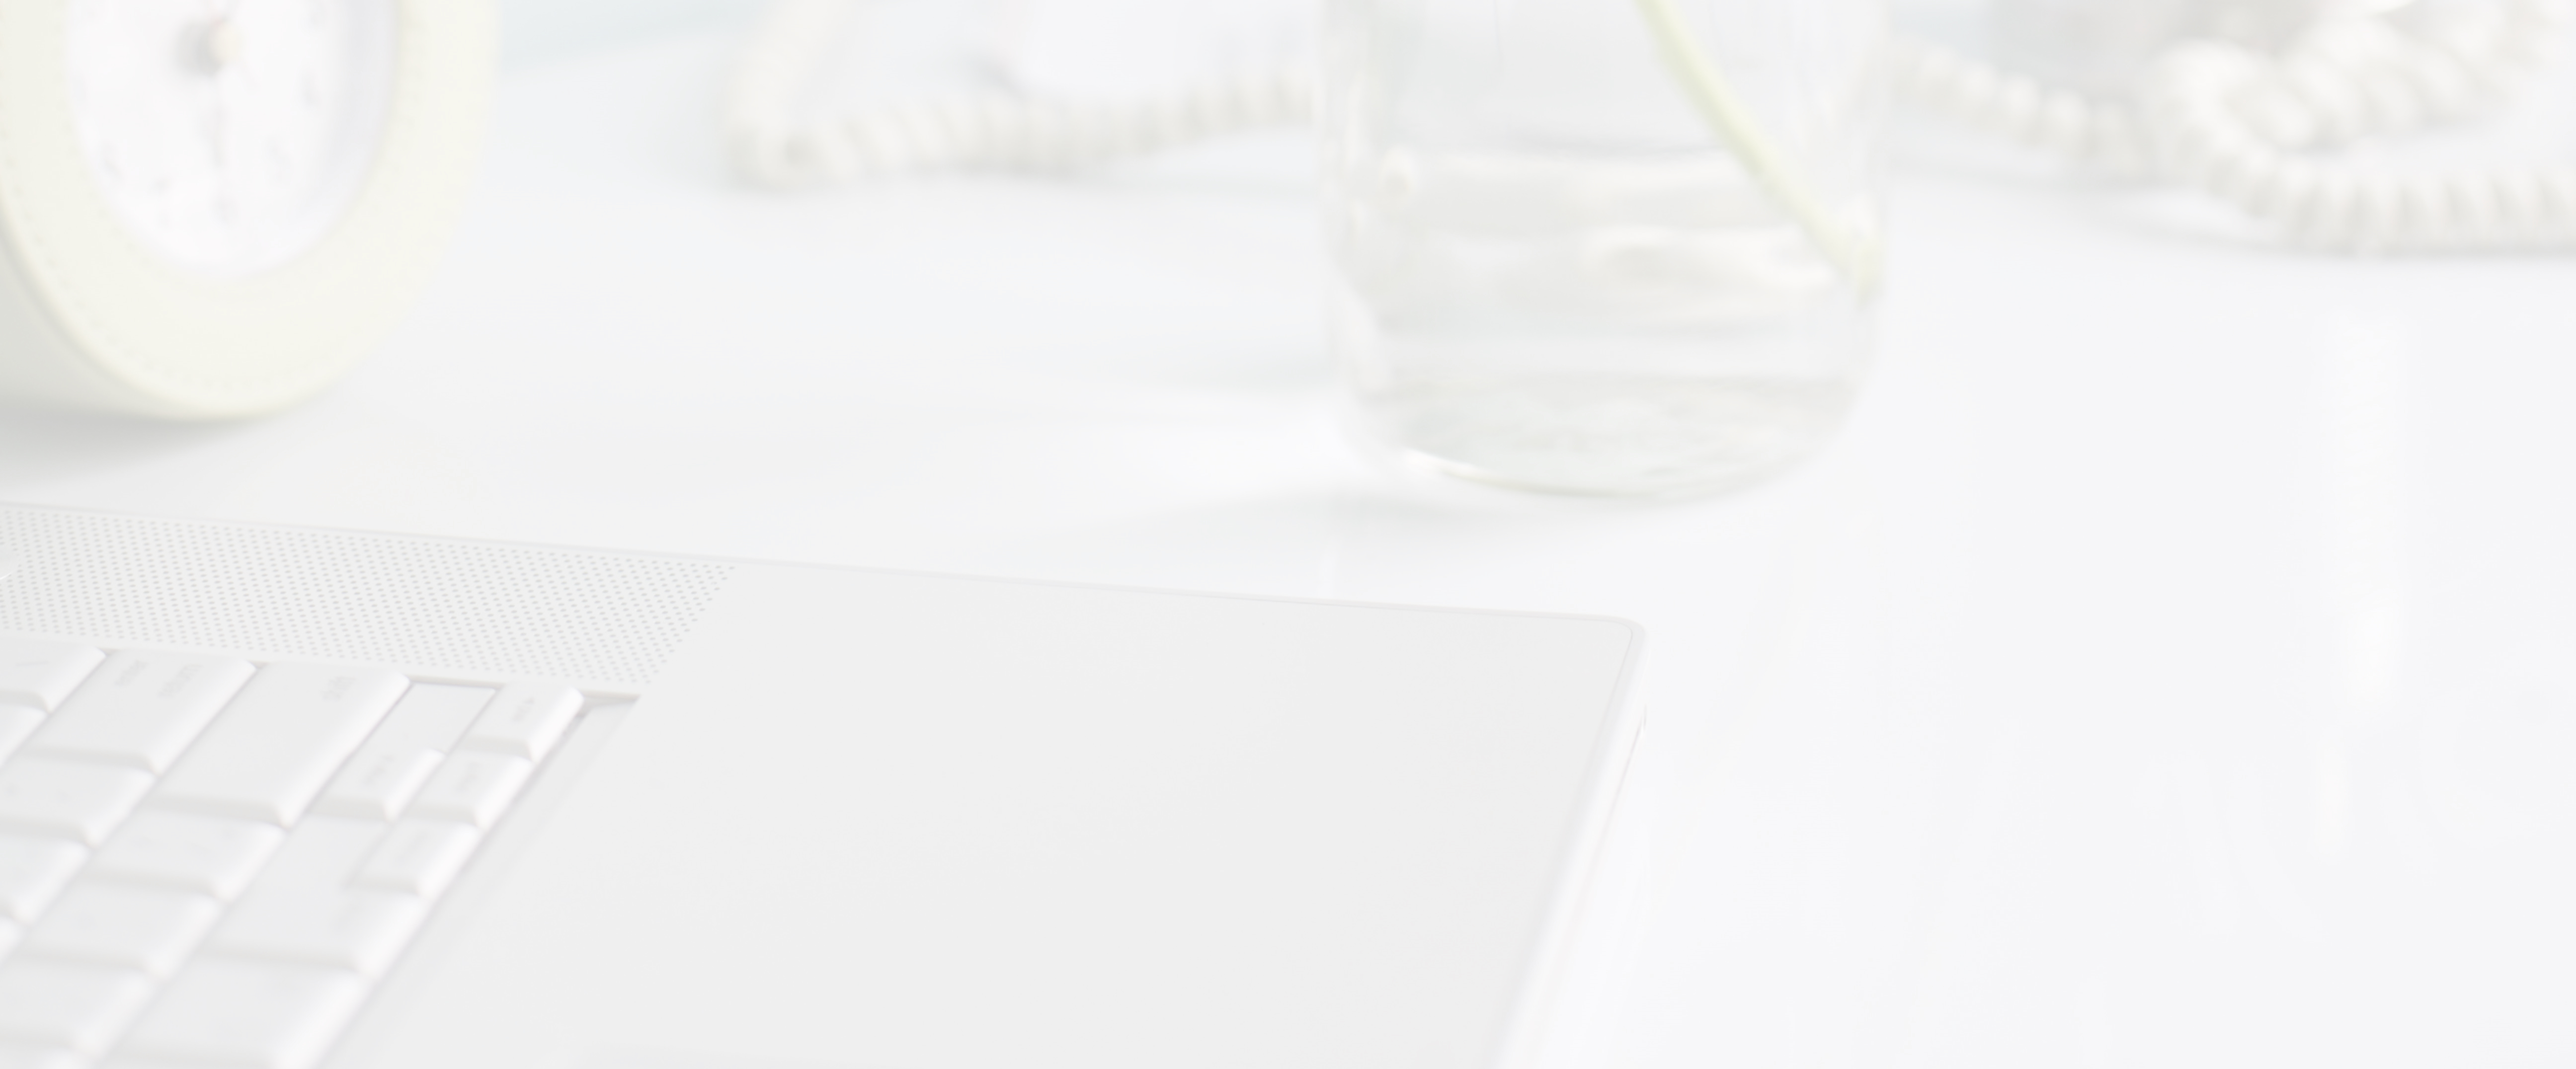
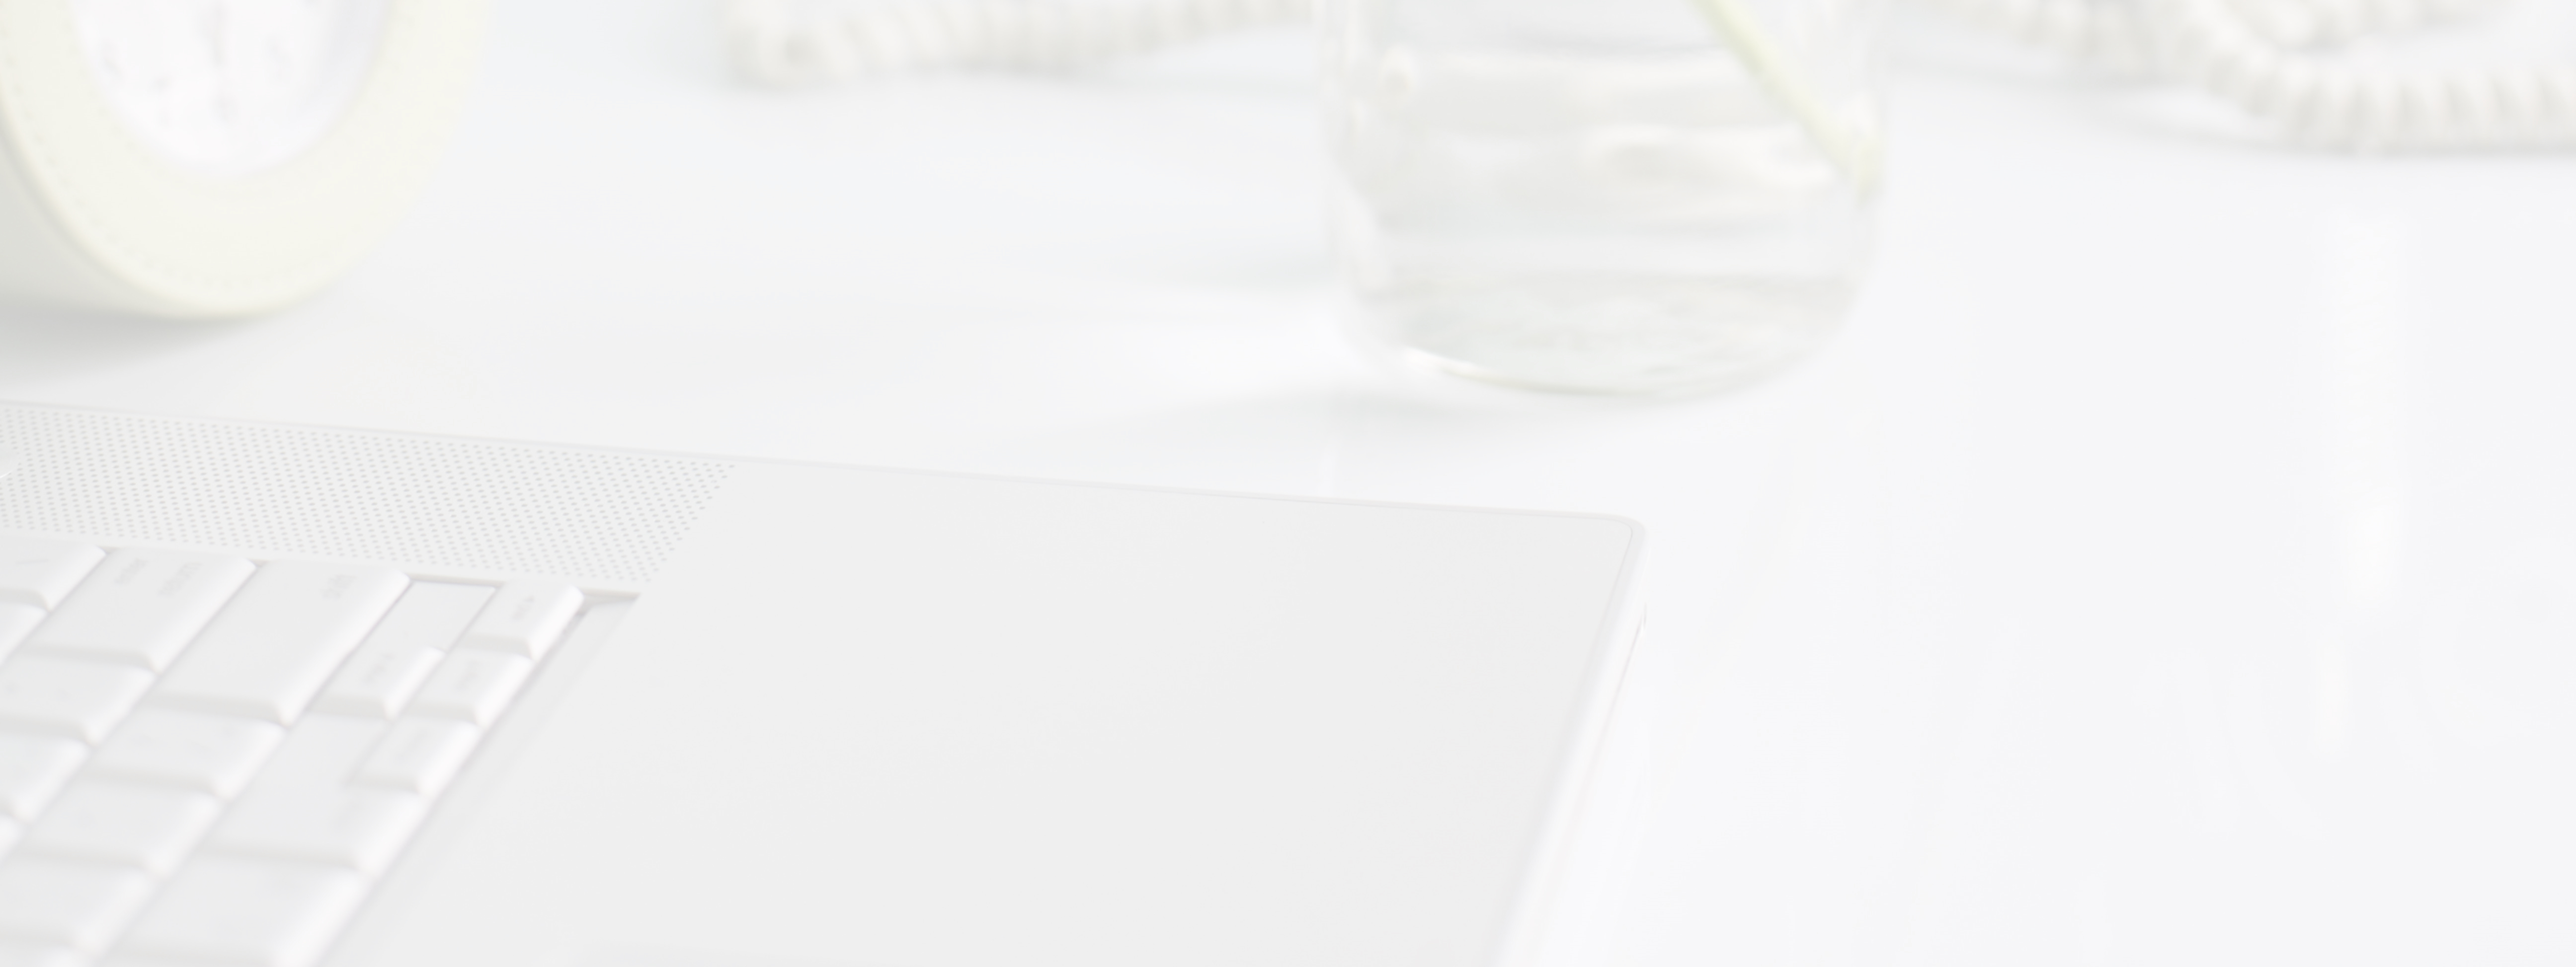
Change About bg image size

diff --git a/assets/styles/styles.css b/assets/styles/styles.css
@@ -73,7 +73,7 @@ h1, h2, h3, h4, h5, h6 {
 		margin-top: 10em;
 		border: 1px solid #eee;
 		background-image:  url("../images/flower_computer.jpg");
-		background-size: 100%;
+		background-size: cover;
 		padding-bottom: 1em;
 }
 
